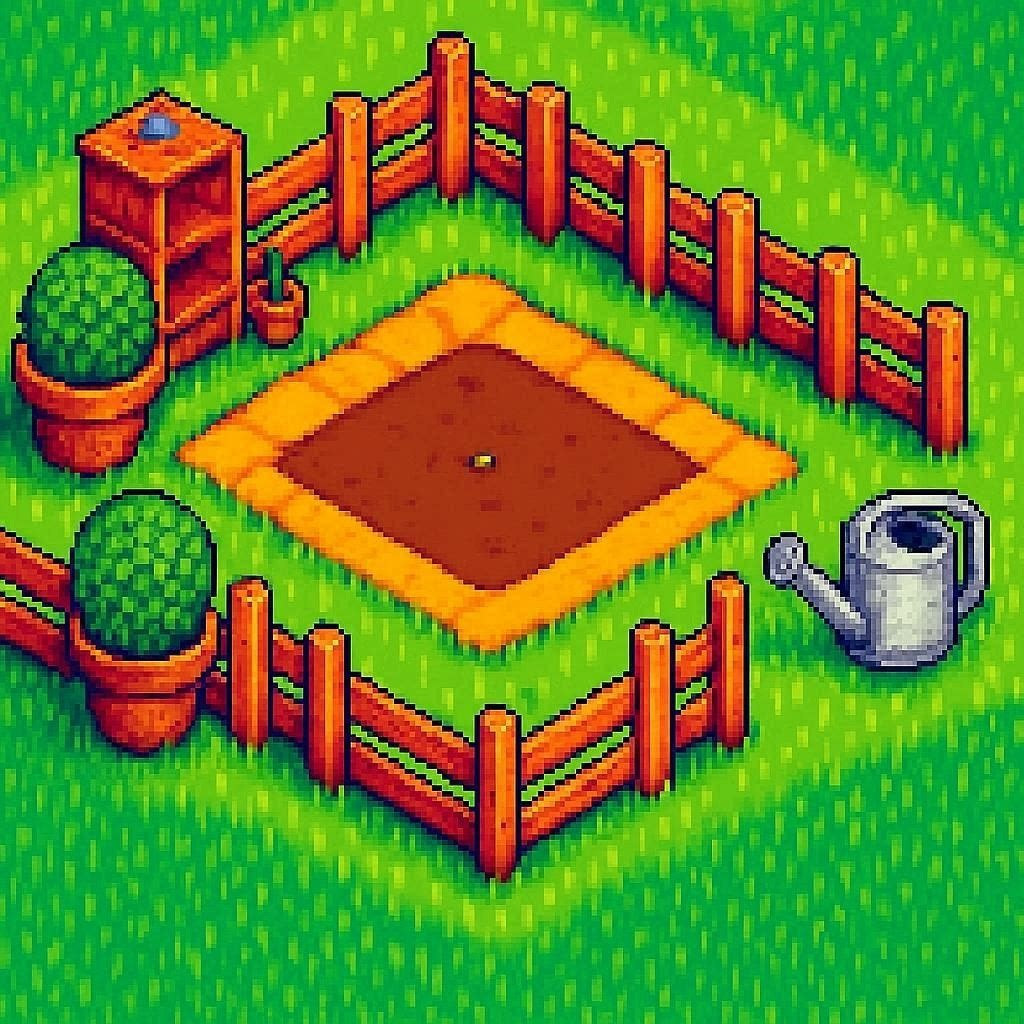
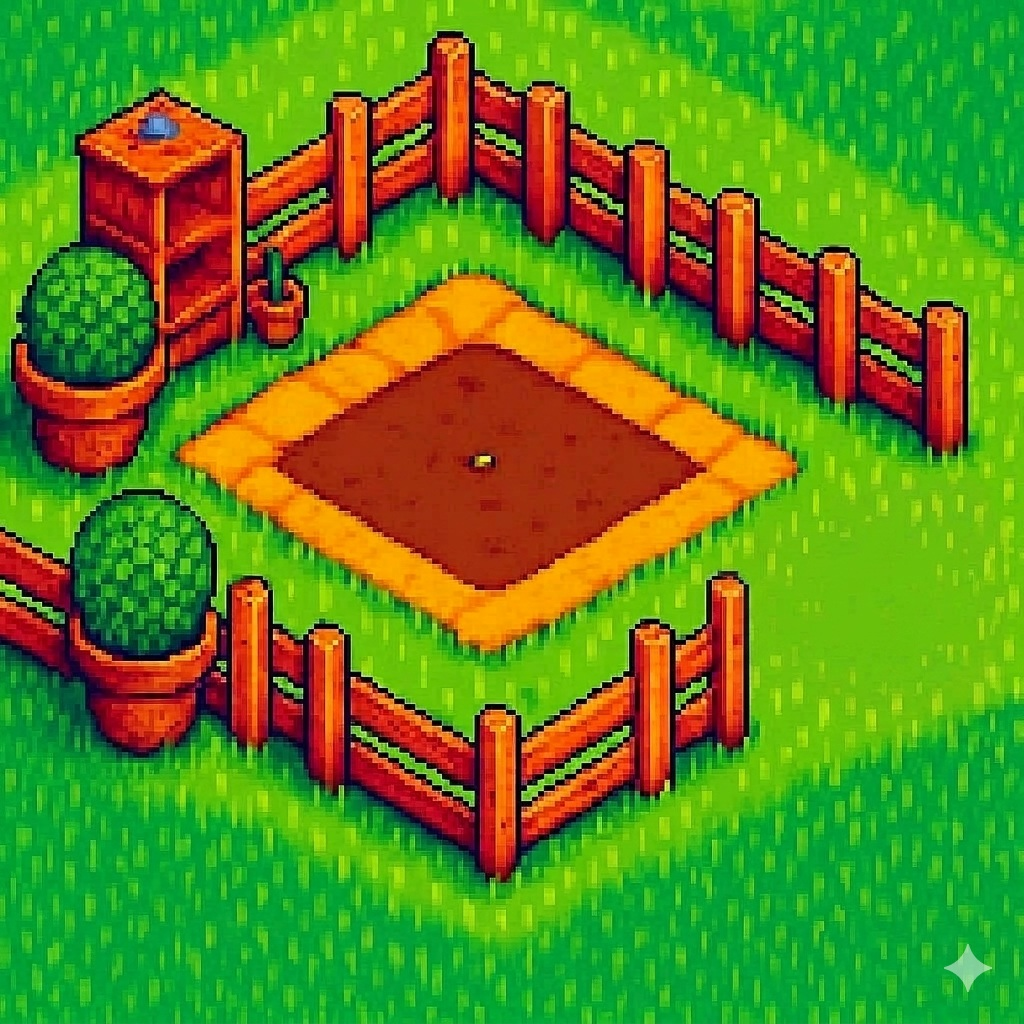
Ajustes de posição e tamanho da imagem, adiciona regador PNG animado

diff --git a/frontend/src/pages/Pomodoro.jsx b/frontend/src/pages/Pomodoro.jsx
@@ -410,8 +410,8 @@ export default function Pomodoro() {
                 }
                 .arvore-imagem-wrapper {
                   position: relative;
-                  width: 360px;
-                  height: 260px;
+                  width: 400px;
+                  height: 300px;
                   border-radius: 16px;
                   overflow: hidden;
                 }
@@ -437,8 +437,8 @@ export default function Pomodoro() {
                 }
                 .regador-wrapper {
                   position: absolute;
-                  bottom: 18px;
-                  right: 18px;
+                  bottom: 135px;
+                  right: 50px;
                   width: 54px;
                   height: 54px;
                   animation: regarMover 2.5s ease-in-out forwards;
@@ -650,21 +650,15 @@ export default function Pomodoro() {
                               alt="Planta"
                             />
                             <div className={`regador-wrapper ${regando ? '' : 'parado'}`}>
-                              <svg width="54" height="54" viewBox="0 0 54 54" fill="none">
-                                <ellipse cx="22" cy="32" rx="14" ry="10" fill="#b0b8c1" stroke="#7a8a99" strokeWidth="2"/>
-                                <rect x="34" y="28" width="14" height="6" rx="3" fill="#b0b8c1" stroke="#7a8a99" strokeWidth="2"/>
-                                <path d="M22 22 Q22 14 30 12" stroke="#7a8a99" strokeWidth="2.5" fill="none" strokeLinecap="round"/>
-                                <circle cx="22" cy="42" r="3" fill="#7a8a99"/>
-                                <circle cx="30" cy="42" r="3" fill="#7a8a99"/>
-                              </svg>
-                              {regando && (
-                                <>
-                                  <div className="gota" />
-                                  <div className="gota" />
-                                  <div className="gota" />
-                                </>
-                              )}
-                            </div>
+                                              <img src="/img/regador.png" alt="regador" style={{ width: '100px', height: '100px' }} />
+                                              {regando && (
+                                                <>
+                                                  <div className="gota" />
+                                                  <div className="gota" />
+                                                  <div className="gota" />
+                                                </>
+                                              )}
+                                            </div>
                           </div>
                           <div className={`arvore-label ${treeData?.morta ? 'arvore-morta' : 'arvore-viva'}`}>
                             {treeLabel()}